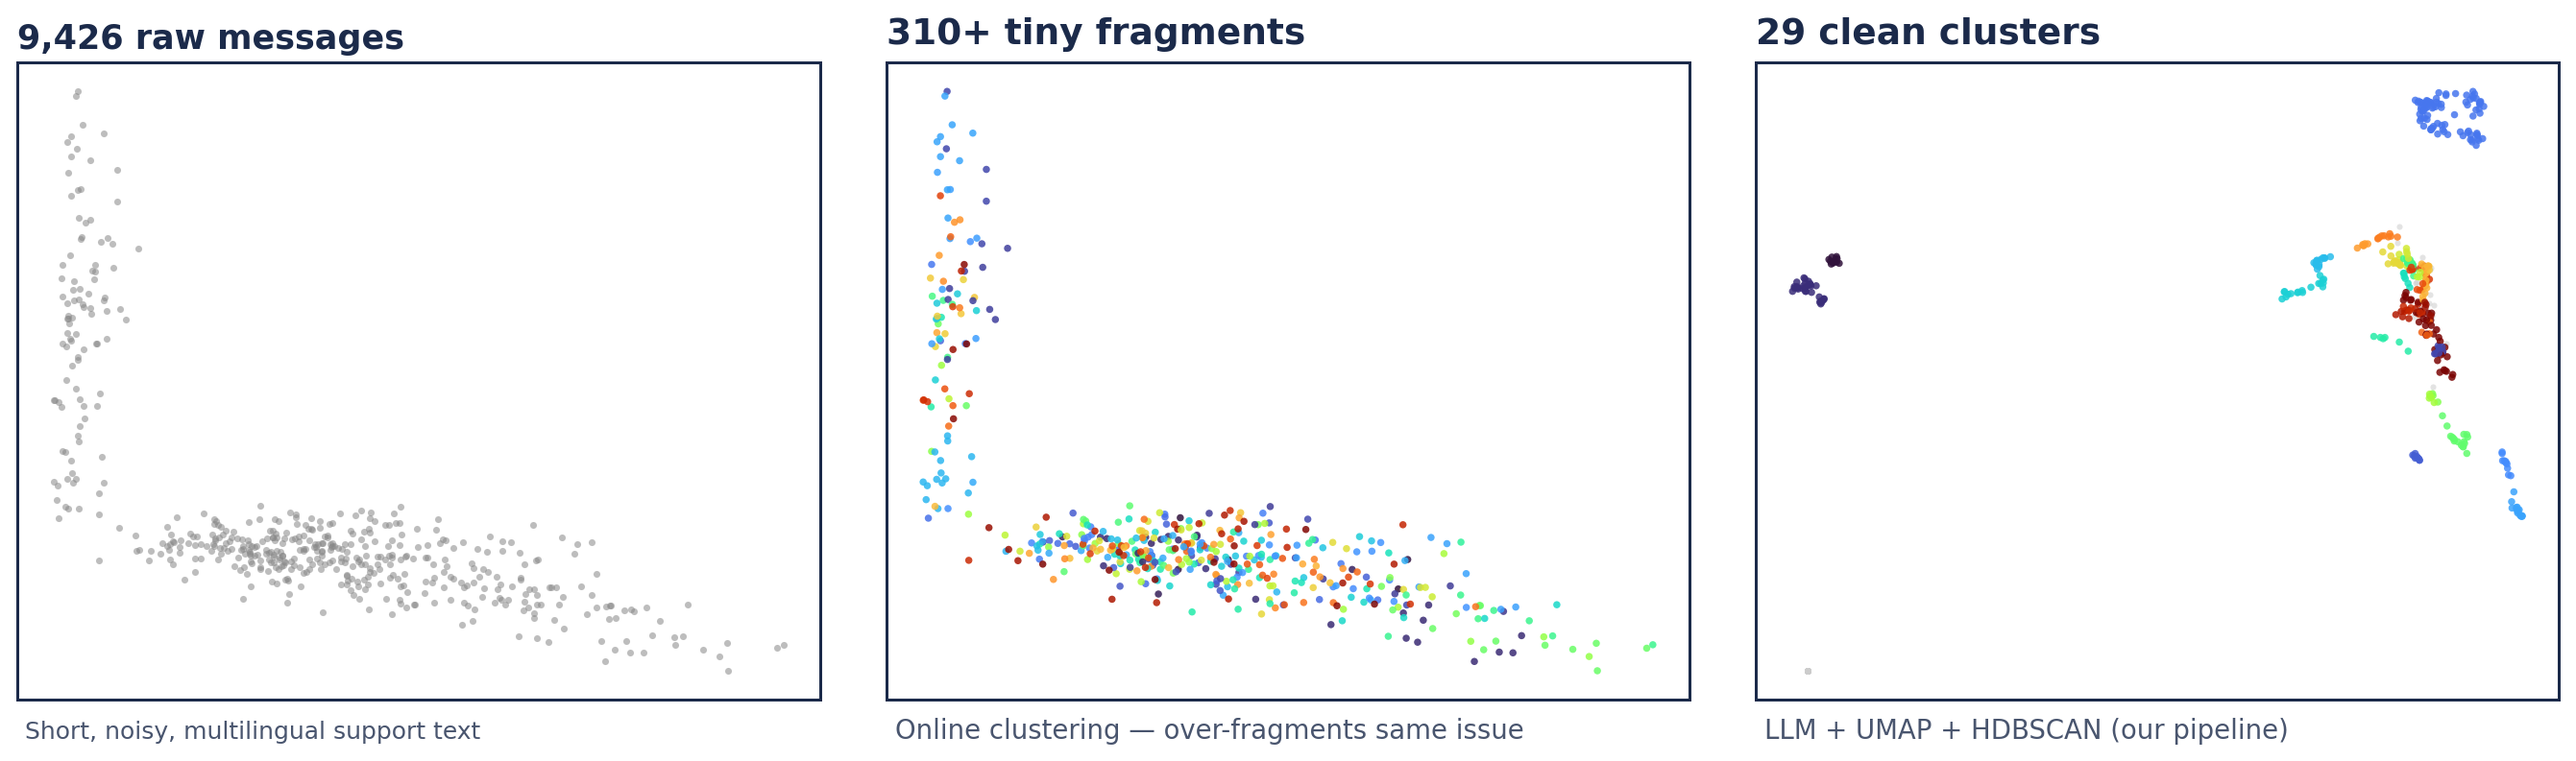
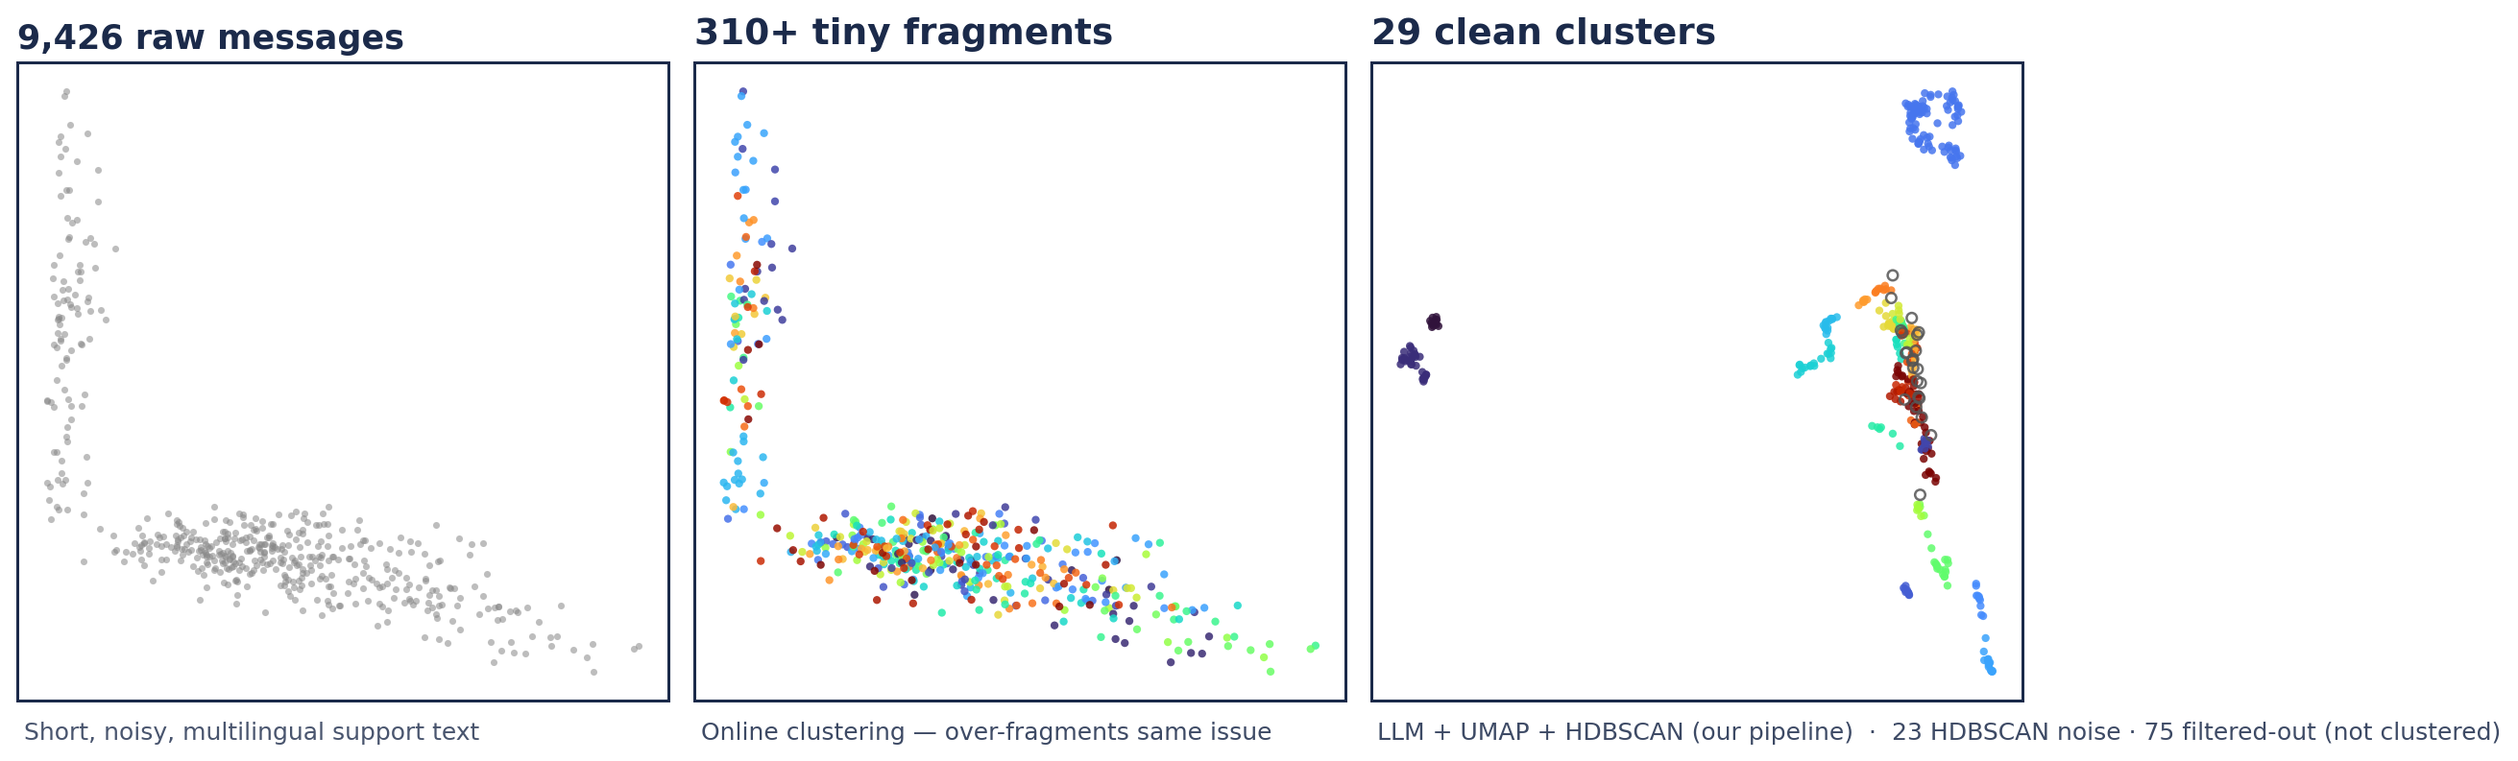
Make HDBSCAN noise visible and exclude pipeline filtered-out tickets
Three rendering bugs were burying the noise points in the UMAP comparison:
- Noise color #CCCCCC at 55% alpha was invisible on white.
- Noise markers (s=6) were smaller than signal markers (s=9).
- Method D recorded 75 LLM-filtered tickets as cluster_id=-1 with
  projection (0,0), so a huge stack at the origin overwhelmed the actual
  HDBSCAN noise (only 23 real noise points).

Fixes in scripts/make_figures.py:
- NOISE color -> #555555 (dark grey).
- Noise markers are now hollow rings (size 18, no fill) so they sit on top
  of the colored signal without obscuring it.
- _projection_arrays drops (cluster_id=-1, x≈0, y≈0) points and returns
  the filtered-out count separately so the subtitle can label it.
- Per-panel subtitle now lists "silhouette · clusters · X HDBSCAN noise"
  and, when applicable, "Y filtered-out (not clustered)" so the figure is
  self-auditing.

diff --git a/scripts/make_figures.py b/scripts/make_figures.py
@@ -33,7 +33,7 @@ OUT_DIR.mkdir(exist_ok=True)
 NAVY = "#1B2A4A"
 TEAL = "#2E86AB"
 LIGHT_BG = "#F5F5F5"
-NOISE = "#CCCCCC"
+NOISE = "#555555"  # dark grey so HDBSCAN noise is actually visible on white
 
 
 def _load_cache() -> dict:
@@ -46,14 +46,24 @@ def _load_cache() -> dict:
 
 
 def _projection_arrays(method: dict):
-    """Return (xs, ys, cluster_ids) for a method, or None if no real projection."""
+    """Return (xs, ys, cluster_ids, n_filtered) for a method, or None.
+
+    Method D records filtered-out tickets (non-issues) as cluster_id=-1 with
+    projection coordinates (0, 0) because they never went through UMAP. We
+    drop those points so the rendering shows real HDBSCAN noise rather than a
+    huge stack at the origin, and return the count separately for annotation.
+    """
     proj = method.get("projection") or []
     if not proj:
         return None
     xs = np.array([p["x"] for p in proj], dtype=float)
     ys = np.array([p["y"] for p in proj], dtype=float)
     cs = np.array([p["cluster_id"] for p in proj], dtype=int)
-    return xs, ys, cs
+
+    at_origin = (np.abs(xs) < 1e-6) & (np.abs(ys) < 1e-6) & (cs == -1)
+    n_filtered = int(at_origin.sum())
+    keep = ~at_origin
+    return xs[keep], ys[keep], cs[keep], n_filtered
 
 
 def _plot_scatter(ax, arrays, title, subtitle):
@@ -65,10 +75,10 @@ def _plot_scatter(ax, arrays, title, subtitle):
     ax.set_yticks([])
     ax.set_title(title, fontsize=15, color=NAVY, fontweight="bold", loc="left",
                  pad=8)
-    ax.text(0.01, -0.06, subtitle, transform=ax.transAxes, fontsize=11,
-            color=NAVY, alpha=0.8)
 
     if arrays is None:
+        ax.text(0.01, -0.06, subtitle, transform=ax.transAxes, fontsize=11,
+                color=NAVY, alpha=0.8)
         ax.text(0.5, 0.5,
                 "Method not run\n(no projection in cache)",
                 ha="center", va="center", transform=ax.transAxes,
@@ -76,17 +86,32 @@ def _plot_scatter(ax, arrays, title, subtitle):
         ax.set_facecolor(LIGHT_BG)
         return
 
-    xs, ys, cs = arrays
-    noise_mask = cs == -1
-    if noise_mask.any():
-        ax.scatter(xs[noise_mask], ys[noise_mask], s=6, c=NOISE, alpha=0.55,
-                   linewidths=0)
-    signal = ~noise_mask
+    xs, ys, cs, n_filtered = arrays
+    # Signal first so noise sits on top in a distinguishable dark grey.
+    signal = cs != -1
     if signal.any():
         n_clusters = max(int(cs[signal].max()) + 1, 1)
         cmap = plt.cm.get_cmap("turbo", n_clusters)
-        ax.scatter(xs[signal], ys[signal], s=9, c=cs[signal], cmap=cmap,
+        ax.scatter(xs[signal], ys[signal], s=11, c=cs[signal], cmap=cmap,
                    alpha=0.85, linewidths=0)
+    noise = cs == -1
+    n_noise = int(noise.sum())
+    if noise.any():
+        ax.scatter(xs[noise], ys[noise], s=18, facecolors="none",
+                   edgecolors=NOISE, linewidths=1.0, alpha=0.85,
+                   label="noise")
+
+    # Compose subtitle with the noise/filtered breakdown so it's auditable.
+    extra = []
+    if n_noise:
+        extra.append(f"{n_noise} HDBSCAN noise")
+    if n_filtered:
+        extra.append(f"{n_filtered} filtered-out (not clustered)")
+    bottom = subtitle
+    if extra:
+        bottom = (bottom + "  ·  " + " · ".join(extra)) if bottom else " · ".join(extra)
+    ax.text(0.01, -0.06, bottom, transform=ax.transAxes, fontsize=10,
+            color=NAVY, alpha=0.85)
 
 
 def _metrics_subtitle(method: dict) -> str:
@@ -349,7 +374,7 @@ def make_hero_strip(cache: dict):
     a_arr = _projection_arrays(methods.get("A", {}))
     ax = axes[0]
     if a_arr is not None:
-        xs, ys, _ = a_arr
+        xs, ys, _cs, _n = a_arr
         ax.scatter(xs, ys, s=8, c="#888888", alpha=0.55, linewidths=0)
     ax.set_title("9,426 raw messages", fontsize=14, color=NAVY,
                  fontweight="bold", loc="left", pad=6)
